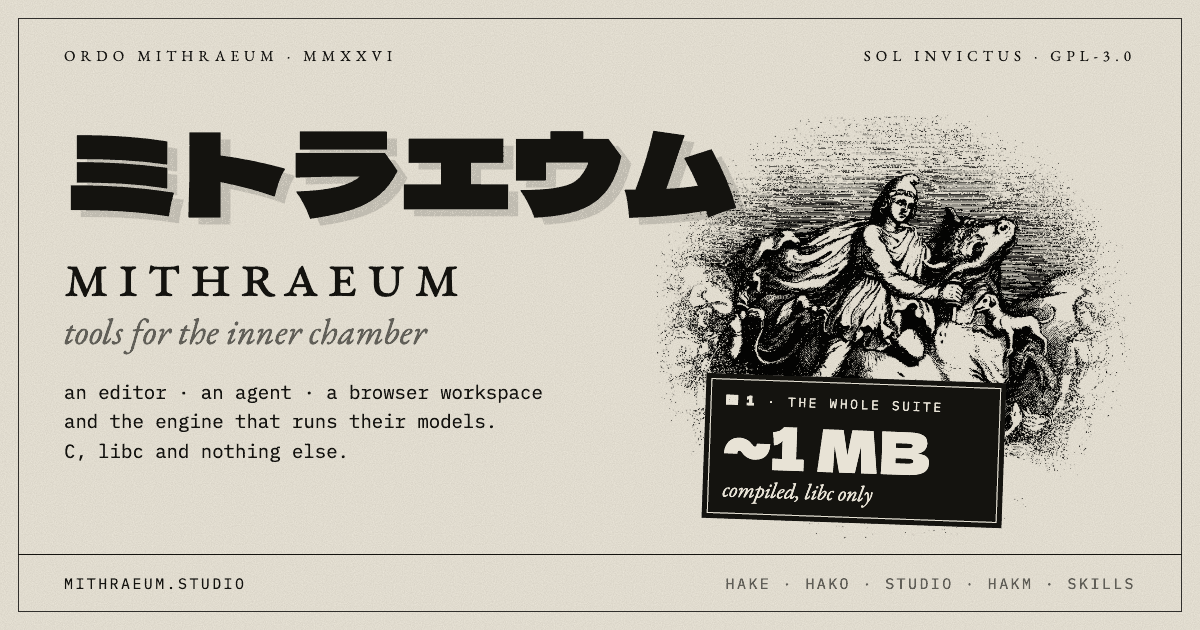
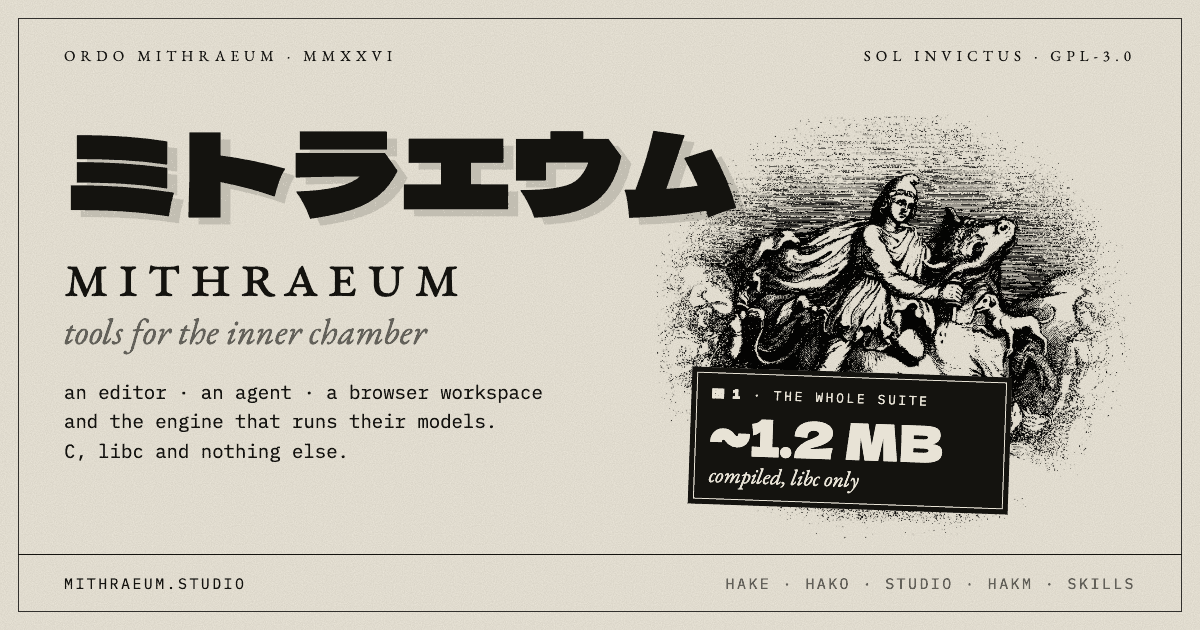
site: sizes from the v0.3.0 / v0.2.0 release builds
- the whole suite is about 1.2 MB now (hako 793K, hake 310K, hakm 88K; 37,085 lines of C), measured from the linux-x86_64 release binaries
- hako's card and SIZE row say ~800 KB
- the sticker keeps ~1.2 MB on one line, and its small print is readable again (a global em color made it dark on dark)
- the share tile says ~1.2 MB

Changed region(s): [[0.555, 0.573, 0.8633, 0.8444]]

diff --git a/index.html b/index.html
@@ -16,7 +16,7 @@
 <meta property="og:site_name" content="Mithraeum" />
 <meta property="og:url" content="https://mithraeum.studio/" />
 <meta property="og:title" content="Mithraeum — tools for the inner chamber" />
-<meta property="og:description" content="An editor, an agent, a browser workspace and a model engine, in C. The whole suite is about 1 MB and links libc and nothing else." />
+<meta property="og:description" content="An editor, an agent, a browser workspace and a model engine, in C. The whole suite is about 1.2 MB and links libc and nothing else." />
 <meta property="og:image" content="https://mithraeum.studio/assets/og.png" />
 <meta property="og:image:width" content="1200" />
 <meta property="og:image:height" content="630" />
@@ -762,12 +762,12 @@
   .riso-art { position: relative; justify-self: end; width: min(100%, 640px); }
   .riso-art img { width: 100%; height: auto; display: block; filter: var(--art); mix-blend-mode: var(--art-blend); }
   .riso-art::after { content: ''; position: absolute; inset: -14px; border: 1px solid var(--sumi); pointer-events: none; }
-  .riso-sticker { position: absolute; left: -6%; bottom: 8%; width: 230px; background: var(--sumi); color: var(--void); padding: 14px 16px; transform: rotate(2deg); display: grid; gap: 4px; box-shadow: inset 0 0 0 5px var(--sumi), inset 0 0 0 6px var(--void); }
+  .riso-sticker { position: absolute; left: -6%; bottom: 8%; width: 250px; background: var(--sumi); color: var(--void); padding: 14px 16px; transform: rotate(2deg); display: grid; gap: 4px; box-shadow: inset 0 0 0 5px var(--sumi), inset 0 0 0 6px var(--void); }
   .riso-sticker small { font-size: 10px; letter-spacing: .22em; }
   .riso-sticker span { font-family: 'EB Garamond', Georgia, serif; font-style: italic; font-size: 20px; line-height: 1.2; }
   .riso-sticker small b, .riso-sticker strong { font-family: 'Dela Gothic One', sans-serif; font-weight: 400; }
-  .riso-sticker strong { font-size: 46px; line-height: 1; letter-spacing: -0.01em; margin: 2px 0 2px; }
-  .riso-sticker em { font-family: 'IBM Plex Mono', ui-monospace, monospace; font-style: normal; font-size: 10px; letter-spacing: .08em; line-height: 1.5; opacity: .85; margin-top: 4px; }
+  .riso-sticker strong { font-size: 40px; line-height: 1; letter-spacing: -0.01em; margin: 2px 0 2px; white-space: nowrap; }
+  .riso-sticker em { font-family: 'IBM Plex Mono', ui-monospace, monospace; font-style: normal; font-size: 10px; letter-spacing: .08em; line-height: 1.5; opacity: .85; margin-top: 4px; color: inherit; }
   .brand .hide-sm { }
   @media (max-width: 640px) { .brand .lat { display: none; } }
   .riso-cross { position: absolute; right: 2%; top: 2%; width: 34px; height: 34px; }
@@ -905,9 +905,9 @@ window.MITH = (function(){
         actions:[['curl install ↗','#install',1,0],['Source ↗',repo.edit,0,1],['Releases',repo.edit+'/releases',0,1]] },
       hako:{ codename:'— II — agent', name:'hako', latin:'箱 · hako-code · the agent',
         status: ver.hako+' · stable', warn:false,
-        desc:'A coding agent in one C file — a <b>~650 KB binary</b> that links libc and nothing else. No Python, no Node, no package manager. Defaults to any installed hako model (<code>hako-sho</code> 3B / <code>hako-koi</code> 7B) — no key, no cloud — and adds 14 cloud providers when you want them. <code>hako --serve</code> puts the same agent in a browser tab; the page is compiled into the binary.',
+        desc:'A coding agent in one C file — a <b>~800 KB binary</b> that links libc and nothing else. No Python, no Node, no package manager. Defaults to any installed hako model (<code>hako-sho</code> 3B / <code>hako-koi</code> 7B) — no key, no cloud — and adds 14 cloud providers when you want them. <code>hako --serve</code> puts the same agent in a browser tab; the page is compiled into the binary.',
         sub:'Code search built in (grep · glob · web_fetch) · diffs before it writes · context that folds instead of running out · skills you can switch on as modes · streaming on every provider · trust-gated tools · sha-verified self-update.',
-        meta:[['CLI','hako'],['VERSION',ver.hako],['SIZE','~650 KB'],['DEPS','libc + curl'],['PROVIDERS','1 local + 14 cloud'],['LICENSE','GPL-3.0']],
+        meta:[['CLI','hako'],['VERSION',ver.hako],['SIZE','~800 KB'],['DEPS','libc + curl'],['PROVIDERS','1 local + 14 cloud'],['LICENSE','GPL-3.0']],
         actions:[['curl install ↗','#install',1,0],['Source ↗',repo.code,0,1],['Browse skills','#skills',0,0]] },
       studio:{ codename:'— III — studio', name:'hako studio', latin:'箱 · hako-studio · the chamber',
         status: ver.studio+' · new', warn:false,
@@ -967,7 +967,7 @@ window.MITH = (function(){
       </div>
       <div class="riso-art">
         <img src="assets/art/mithras-giustiniani.png" width="960" height="872" alt="Mithras slaying the bull, after an engraving of the Giustiniani relief, 1636–47">
-        <div class="riso-sticker"><small><b>図 1</b> · THE WHOLE SUITE</small><strong>~1 MB</strong><span>three binaries, compiled. They link libc and nothing else.</span><em>hako 654K · hake 259K<br>hakm 88K · 32,672 lines of C</em></div>
+        <div class="riso-sticker"><small><b>図 1</b> · THE WHOLE SUITE</small><strong>~1.2 MB</strong><span>three binaries, compiled. They link libc and nothing else.</span><em>hako 793K · hake 310K<br>hakm 88K · 37,085 lines of C</em></div>
         <svg class="riso-cross" viewBox="0 0 28 28" aria-hidden="true"><circle cx="14" cy="14" r="8" fill="none" stroke="currentColor" stroke-width="1.5"/><path d="M14 0V28M0 14H28" stroke="currentColor" stroke-width="1.5"/></svg>
       </div>
     </div>

diff --git a/html/index.html b/html/index.html
@@ -67,12 +67,12 @@
   <article id="hako">
     <h3>hako <small>箱 · hako-code · the agent</small></h3>
     <p class="status">— II — agent &nbsp;·&nbsp; v0.3.0 · stable</p>
-    <p>A coding agent in one C file — a <b>~650 KB binary</b> that links libc and nothing else. No Python, no Node, no package manager. Defaults to any installed hako model (<code>hako-sho</code> 3B / <code>hako-koi</code> 7B) — no key, no cloud — and adds 14 cloud providers when you want them. <code>hako --serve</code> puts the same agent in a browser tab; the page is compiled into the binary.</p>
+    <p>A coding agent in one C file — a <b>~800 KB binary</b> that links libc and nothing else. No Python, no Node, no package manager. Defaults to any installed hako model (<code>hako-sho</code> 3B / <code>hako-koi</code> 7B) — no key, no cloud — and adds 14 cloud providers when you want them. <code>hako --serve</code> puts the same agent in a browser tab; the page is compiled into the binary.</p>
     <p class="sub">— Code search built in (grep · glob · web_fetch) · diffs before it writes · context that folds instead of running out · skills you can switch on as modes · streaming on every provider · trust-gated tools · sha-verified self-update.</p>
     <dl>
       <dt>CLI</dt><dd>hako</dd>
       <dt>VERSION</dt><dd>v0.3.0</dd>
-      <dt>SIZE</dt><dd>~650 KB</dd>
+      <dt>SIZE</dt><dd>~800 KB</dd>
       <dt>DEPS</dt><dd>libc + curl</dd>
       <dt>PROVIDERS</dt><dd>1 local + 14 cloud</dd>
       <dt>LICENSE</dt><dd>GPL-3.0</dd>
